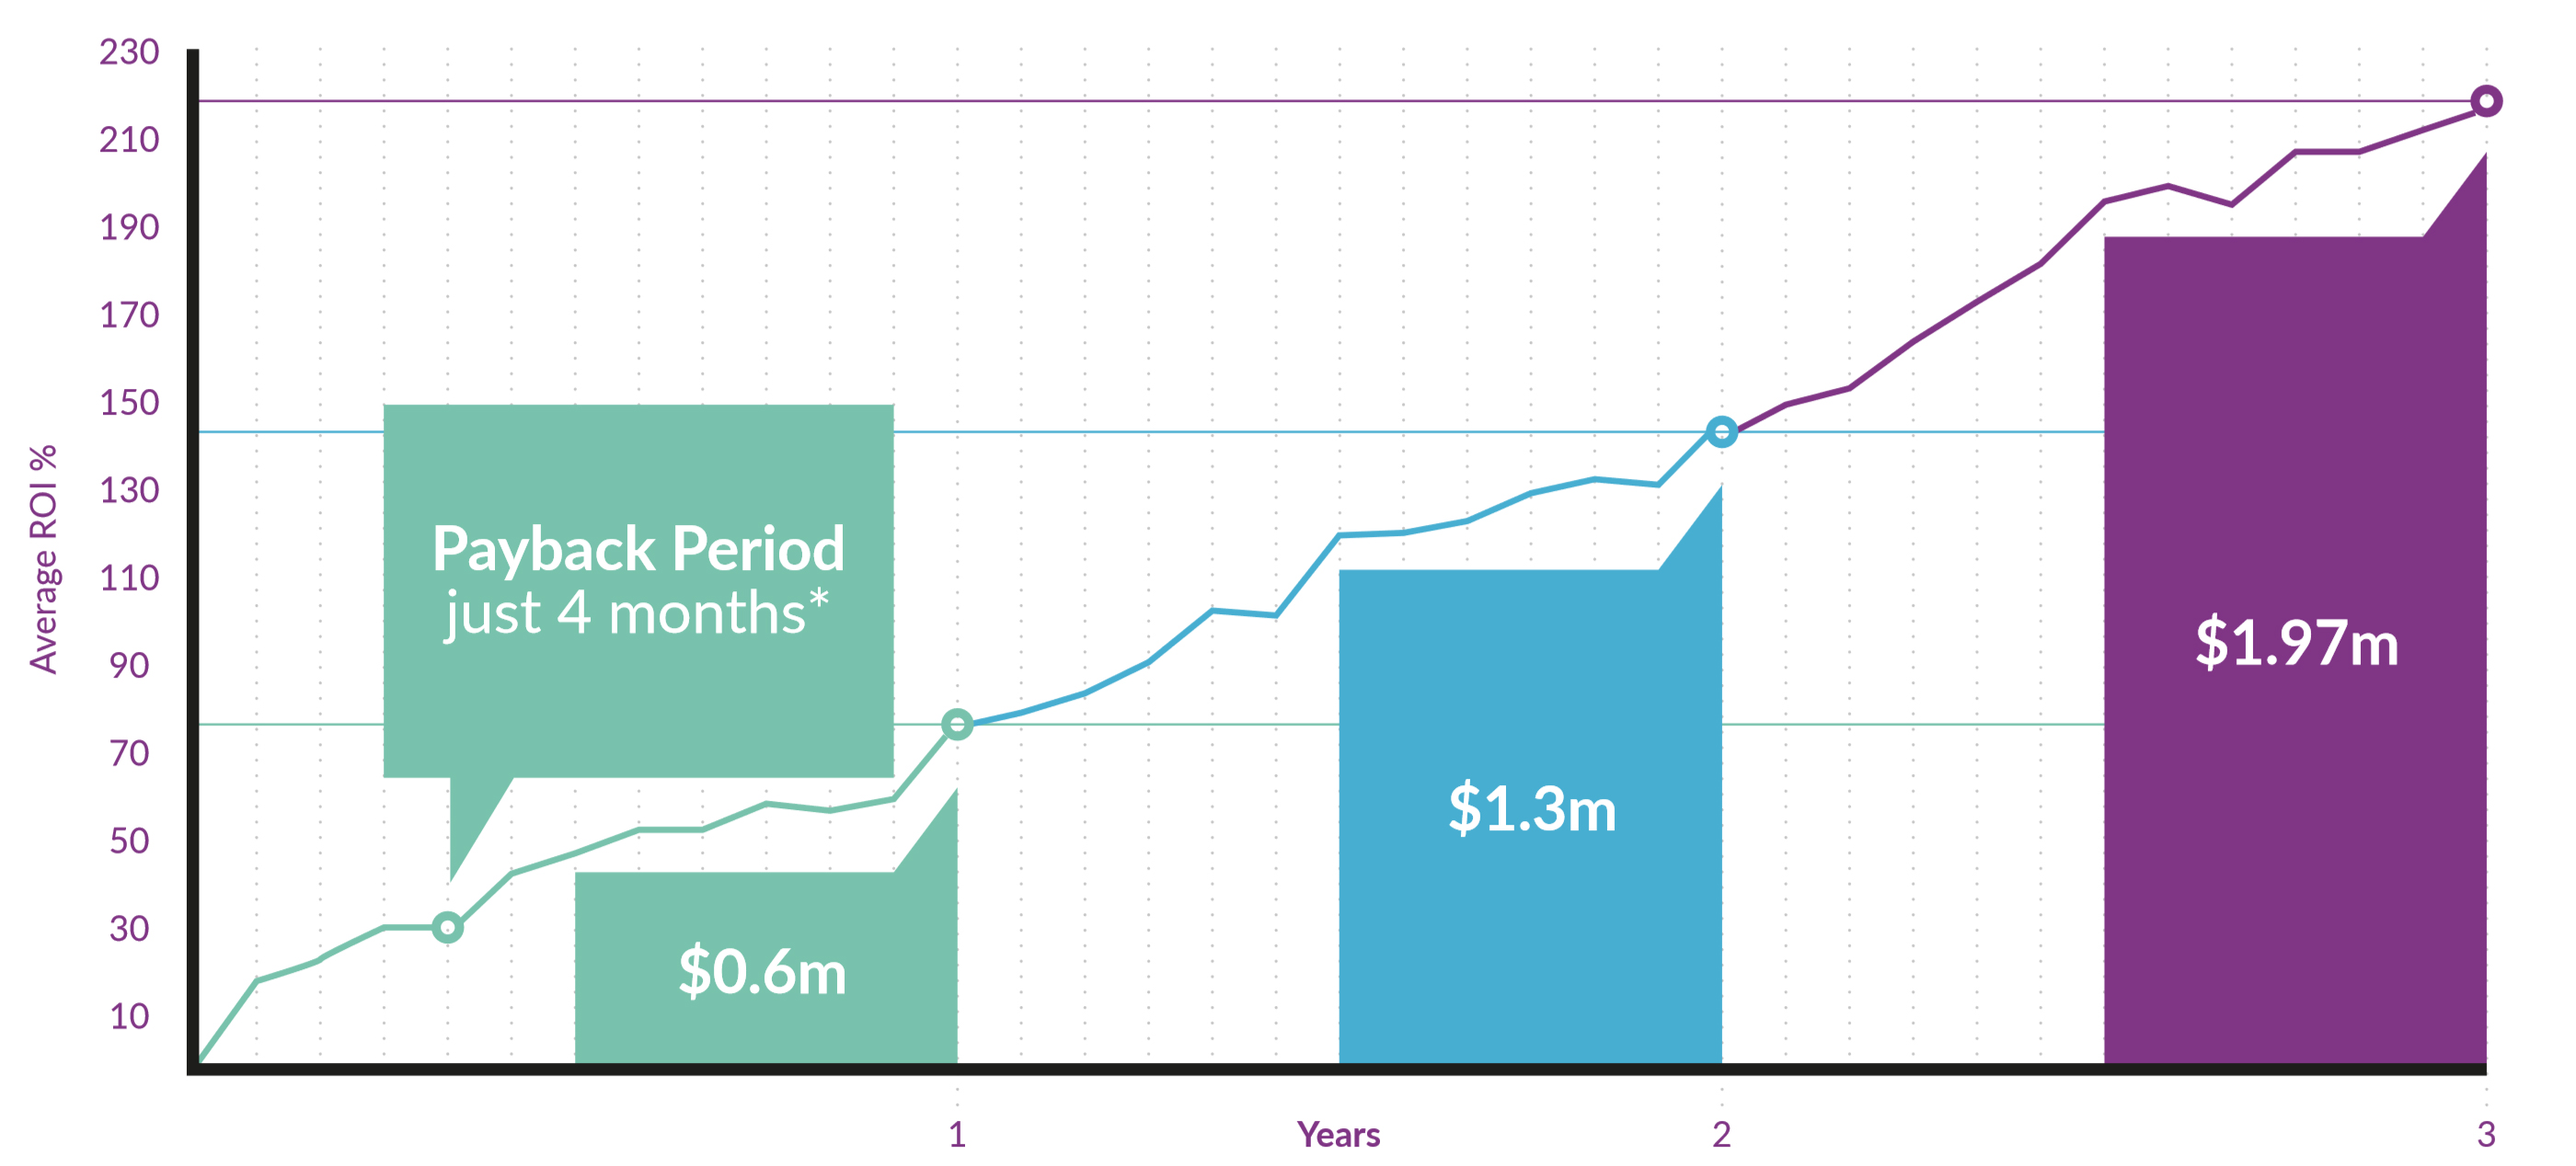
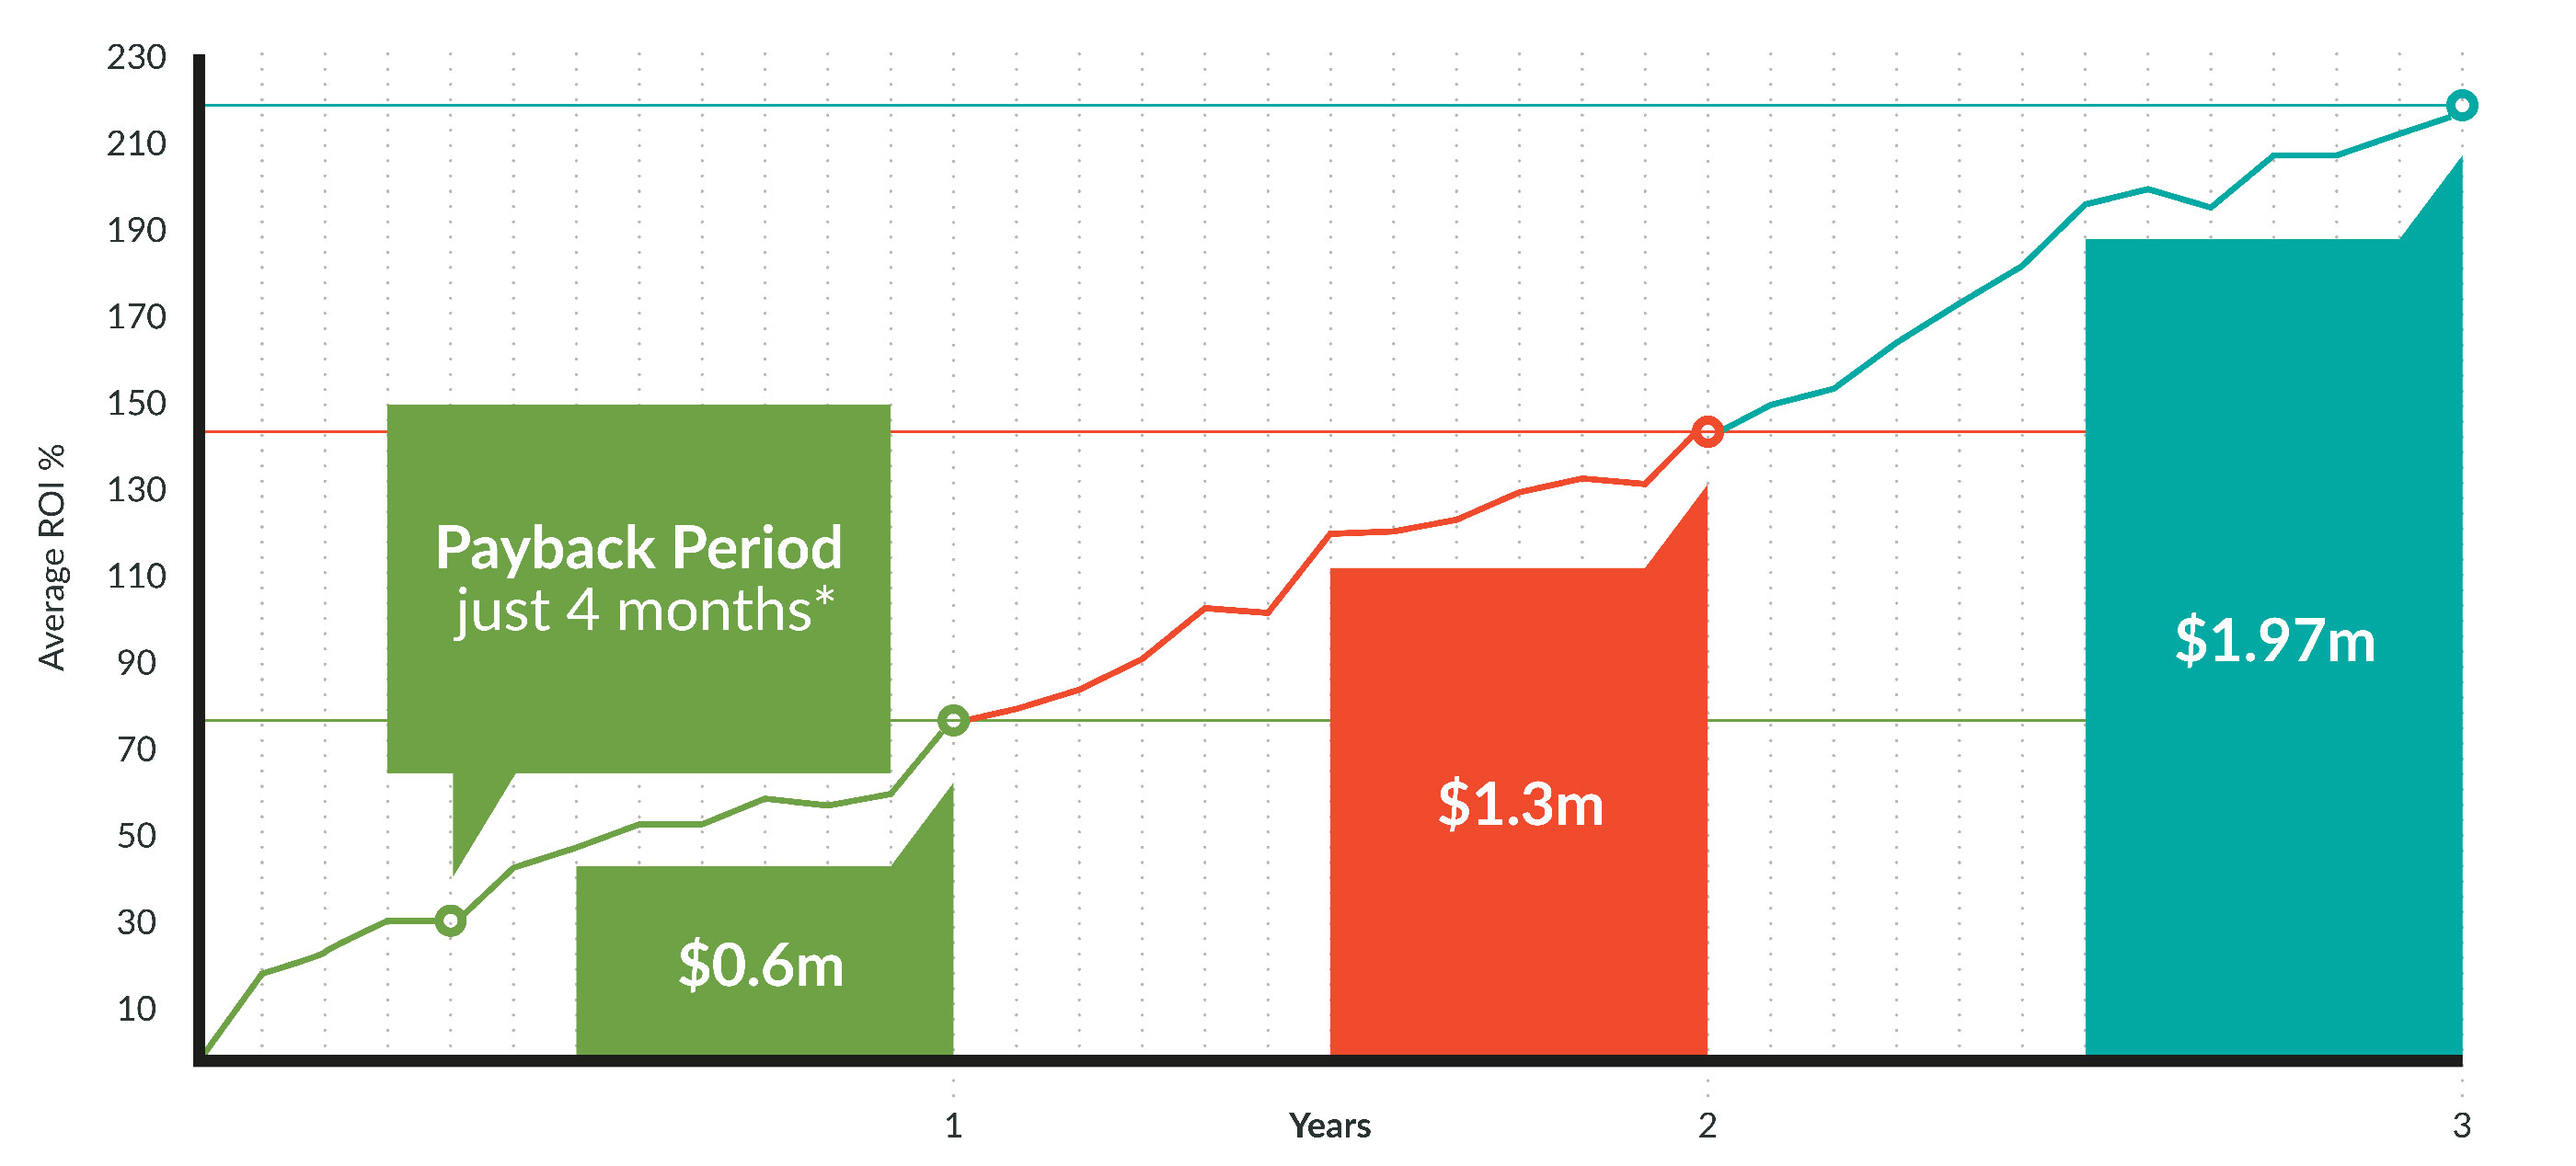
Updated images

diff --git a/rkl/css/default.scss b/rkl/css/default.scss
@@ -18,63 +18,63 @@ $colour-primary: #008720;
 }
 
 #flip-growth-man {
-  @include flip-style(#FC4C02, '../img/growth.jpg?cb=1');
+  @include flip-style(#f04b2d, '../img/growth.jpg?cb=1');
 }
 
 #flip-digital-man {
-  @include flip-style(#298FC2, '../img/digital.jpg?cb=1');
+  @include flip-style(#6ea246, '../img/digital.jpg?cb=1');
 }
 
 #flip-flexibility-man {
-  @include flip-style(#FFA300, '../img/flexibility.jpg?cb=1');
+  @include flip-style(#0e68a3, '../img/flexibility.jpg?cb=1');
 }
 
 #flip-productivity-man {
-  @include flip-style(#407EC9, '../img/productivity.jpg?cb=1');
+  @include flip-style(#02a9a4, '../img/productivity.jpg?cb=1');
 }
 .button-yellow {
-  background: #009CA6;
+  background: #6ea246;
 
   &:hover {
-    background: linear-gradient(90deg, rgba(255, 255, 255, 0.07), rgba(255, 255, 255, 0.15)), lighten(#009CA6, 10%);
+    background: linear-gradient(90deg, rgba(255, 255, 255, 0.07), rgba(255, 255, 255, 0.15)), lighten(#6ea246, 10%);
 
   }
 
   &:active,
   &:focus {
-    background: linear-gradient(90deg, rgba(0, 0, 0, 0.07), rgba(0, 0, 0, 0.15)), darken(#009CA6, 10%);
+    background: linear-gradient(90deg, rgba(0, 0, 0, 0.07), rgba(0, 0, 0, 0.15)), darken(#6ea246, 10%);
 
   }
 }
 
 .flickity-page-dots .dot {
-  background: #009CA6;
-  border: 2px solid #009CA6;
+  background: #6ea246;
+  border: 2px solid #6ea246;
 }
 
 .flickity-page-dots .dot.is-selected {
   background: white;
-  border: 2px solid #009CA6;
+  border: 2px solid #6ea246;
 }
 
 .flickity-button {
-  background: rgba( #009CA6, .2 );
+  background: rgba( #6ea246, .2 );
 
   &:hover {
-    background: #009CA6;
+    background: #6ea246;
   }
 
 
   &:focus {
     outline: none;
-    background: #009CA6;
-    box-shadow: 0 0 0 0 #009CA6;
+    background: #6ea246;
+    box-shadow: 0 0 0 0 #6ea246;
   }
 }
 
 .callout {
-  background: #2a3332 !important;
-  color: #2a3332;
+  background: #6ea246 !important;
+  color: #6ea246;
 
 }
 
@@ -85,13 +85,13 @@ $colour-primary: #008720;
 }
 
 .quote-color {
-  color:#407EC9;
+  color:#6ea246;
 
 }
 .tabs {
   .column {
     &.active {
-      background: #FFA300;
+      background: #f04b2d;
 
     }
   }
@@ -139,4 +139,8 @@ h3{
 
 .ui[class*="eight column"].grid>.column:not(.row), .ui[class*="eight column"].grid>.row>.column {
   width: 25%;
+}
+
+.logos-container img {
+  height: 125px;
 }

diff --git a/_whitepaper-pages/rkl/cta.html b/_whitepaper-pages/rkl/cta.html
@@ -6,7 +6,7 @@ classes:
 
 <div class="pt-5 text-center">
     <div class="logos-container">
-        <img class="ui middle aligned mr-3" src="img/k3-logo.png">
+        <img class="ui middle aligned mr-3" src="img/rkl-logo.jpg">
         <img class="ui middle aligned ml-3" src="img/sage-partner-logo-new.png">
     </div>
 </div>
@@ -18,15 +18,15 @@ classes:
     <div class="ui five column center aligned stackable grid">
         <div class="column delay-200ms mt-5 " data-animation="fadeIn">
             <h5 class="text-nowrap contrast-dark">Get In Touch</h5>
-            <a href="https://solutions.k3btg.com/contact-us/" target="_blank" class="button button-yellow text-nowrap" data-ga-event-category="CTA" data-ga-event-action="Contact">Contact Us <i class="at icon mr-0 ml-1"></i></a>
+            <a href="https://www.google.co.uk" target="_blank" class="button button-yellow text-nowrap" data-ga-event-category="CTA" data-ga-event-action="Contact">Contact Us <i class="at icon mr-0 ml-1"></i></a>
         </div>
         <div class="column delay-200ms mt-5" data-animation="fadeIn">
             <h5 class="text-nowrap contrast-dark">Book A Demo</h5>
-            <a href="https://solutions.k3btg.com/request-a-demo/" target="_blank" class="button button-yellow text-nowrap" data-ga-event-category="CTA" data-ga-event-action="Book Demo">Book <i class="calendar alternate icon mr-0 ml-1"></i></a>
+            <a href="https://www.google.co.uk" target="_blank" class="button button-yellow text-nowrap" data-ga-event-category="CTA" data-ga-event-action="Book Demo">Book <i class="calendar alternate icon mr-0 ml-1"></i></a>
         </div>
         <div class="column delay-200ms mt-5" data-animation="fadeIn">
             <h5 class="text-nowrap contrast-dark">Download PDF Version</h5>
-            <a href="https://www.dropbox.com/s/a2u32qf7sl6f617/Build_a_successful_tech_strategy_for_the_future_with_k3.pdf?dl=0" target="_blank" class="button button-yellow text-nowrap" data-ga-event-category="CTA" data-ga-event-action="Download">Download <i class="download icon mr-0 ml-1"></i></a>
+            <a href="https://www.google.co.uk" target="_blank" class="button button-yellow text-nowrap" data-ga-event-category="CTA" data-ga-event-action="Download">Download <i class="download icon mr-0 ml-1"></i></a>
         </div>
     </div>
 </div></div>

diff --git a/_whitepaper-pages/rkl/rkl-case-study-rspca/solution.html b/_whitepaper-pages/rkl/rkl-case-study-rspca/solution.html
@@ -21,9 +21,21 @@ title: RSPCA Case Study - Solution
 
 <div class="ui left aligned stackable two column relaxed grid pt-3 mt-md-3">
     <div class="column delay-100s" data-animation="slideInLeft">
+
+
+        <img class="ui fluid image" src="img/solution-the.jpg">
+
+    </div>
+
+    <div class="column delay-200s" data-animation="slideInUp">
         <p class="pb-3">Stewart & Jasper turned to RKL eSolutions to advise on the appropriate solution to meet their
             needs. Sage Business Cloud Enterprise Management offered the functionality and tools they required to
             address the challenges they had identified.</p>
+        <p class="pb-3">
+            In addition to hauling, shelling and processing almonds, S&J produces gift baskets. Enterprise Management
+            helped integrate their retail operations allowing their POS system to send data directly into the Sage ERP
+            solution, helping to streamline business operations.
+        </p>
         <p class="pb-3">As a process manufacturer using <b>Enterprise Management</b>, S&J utilizes recipes to manage
             ingredient usage and production costs. Recipes are used to track the quantity requirements and costs of
             individual items, such as bulk almonds, flavorings, and sugar per batch and lot. Enterprise Management also
@@ -32,18 +44,6 @@ title: RSPCA Case Study - Solution
         <p class="pb-3">Using lot tracking functionality within Enterprise Management, S&J can now track the shelf life
             for each product and also be better prepared should there a product recall occur. Both combining to ensure a
             consistent customer experience.</p>
-
-
-    </div>
-
-    <div class="column delay-200s" data-animation="slideInUp">
-
-        <p class="pb-3">
-            In addition to hauling, shelling and processing almonds, S&J produces gift baskets. Enterprise Management
-            helped integrate their retail operations allowing their POS system to send data directly into the Sage ERP
-            solution, helping to streamline business operations.
-        </p>
-
 
     </div>
 </div>

diff --git a/_whitepaper-pages/rkl/rkl-case-study-rspca/results.html b/_whitepaper-pages/rkl/rkl-case-study-rspca/results.html
@@ -33,13 +33,6 @@ title: RSPCA Case Study - Bottomline
             Sage Business Cloud Enterprise Management. The confidence of RKL staff to deliver a successful project,
             combined with mastery of the Sage portfolio and industry expertise, eased the decision for S&J to commit to
             Enterprise Management. </p>
-
-
-    </div>
-
-    <div class="column delay-200s" data-animation="slideInUp">
-
-
         <p class="pb-3">
             <b>Result</b>
         </p>
@@ -48,6 +41,14 @@ title: RSPCA Case Study - Bottomline
             management, pricing, and quality control. The benefits realized are increased visibility of financial
             indicators, intelligent data analysis, and simple processes to accommodate rapid growth.
         </p>
+
+
+    </div>
+
+    <div class="column delay-200s" data-animation="slideInUp">
+
+        <img class="ui fluid image" src="img/results.jpg">
+
 
 
     </div>

diff --git a/_whitepaper-pages/rkl/better-way-to-run.html b/_whitepaper-pages/rkl/better-way-to-run.html
@@ -17,7 +17,7 @@ title: A Better Way to Run Your Organisation
                 <div class="callout delay-100ms growable grow bottom mt-0 mb-2" data-animation="flipInX">
                     <div>
                         <h5 class="pt-md-5 m-4"
-                            style="background: url(img/icon-eye.png) no-repeat top; padding-top: 50px !important; min-height: 50px; color:#FFA300;">
+                            style="background: url(img/icon-eye.png) no-repeat top; padding-top: 50px !important; min-height: 50px; color:#FFFFFF;">
                             <span>Visibility through detailed, real-time data is key to competing.</span>
                         </h5>
                     </div>

diff --git a/_whitepaper-pages/rkl/manufacturing.html b/_whitepaper-pages/rkl/manufacturing.html
@@ -17,7 +17,7 @@ title: Manufacturing pain points
                 <div class="callout delay-100ms growable grow bottom mt-0 mb-2" data-animation="flipInX">
                     <div>
                         <h5 class="pt-md-5 m-4"
-                            style="background: url(img/icon-eye.png) no-repeat top; padding-top: 50px !important; min-height: 50px; color:#FFA300;">
+                            style="background: url(img/icon-eye.png) no-repeat top; padding-top: 50px !important; min-height: 50px; color:#FFFFFF;">
                             <span>Visibility through detailed, real-time data is key to competing.</span>
                         </h5>
                     </div>

diff --git a/_whitepaper-pages/rkl/forrester-manu.html b/_whitepaper-pages/rkl/forrester-manu.html
@@ -9,7 +9,7 @@ classes:
 </div>
 <div class="ui left aligned mobile reversed stackable grid">
     <div class="ten wide column">
-        <img class="ui fluid image" data-animation="fadeIn" src="img/forrester-disti.jpg">
+        <img class="ui fluid image" data-animation="fadeIn" src="img/forrester-manu.jpg">
     </div>
 
     <div class="text-left six wide column delay-200s" data-animation="slideInRight">
